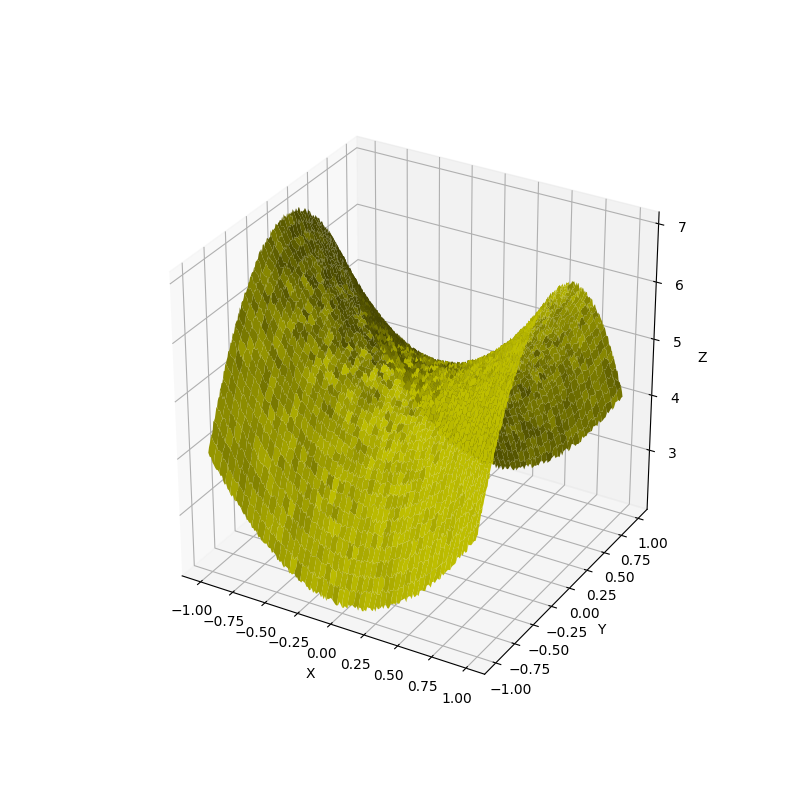
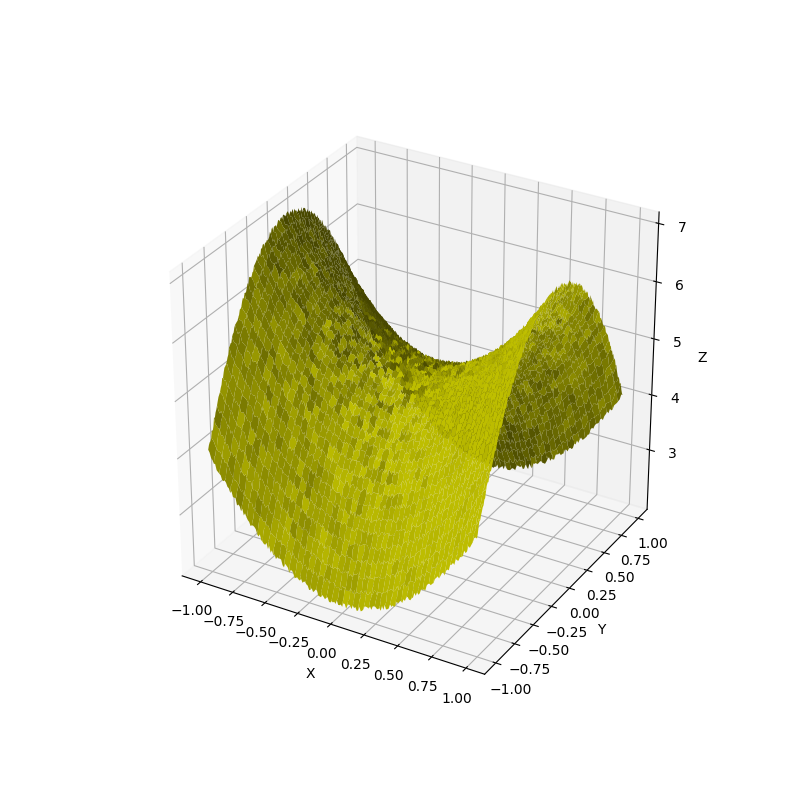
incredible

Changed region(s): [[0.25, 0.25, 0.7812, 0.7812]]

diff --git a/lesson1.py b/lesson1.py
@@ -44,3 +44,94 @@ ax.set_zlabel('Z')
 #save out the image
 plt.savefig('saddle.png')
 
+
+#so that's the target now train the model:
+
+#Using Deep Learning
+#Step 0: Load Libraries
+
+from keras.models import Model
+from keras.layers import Dense, Input, Concatenate
+
+
+#Step 1: Design the Learning Architecture, model definition
+def deep_learning_model():
+
+    # Get the input
+    x_input = Input(shape=[1], name="X")
+    y_input = Input(shape=[1], name="Y")
+
+    # Concatenate the input
+    xy_input = Concatenate(name="Concat")([x_input, y_input])
+
+    # Create Transform functions
+    Dense_1 = Dense(32, activation="relu", name="Dense1")(xy_input)
+    Dense_2 = Dense(4, activation="relu", name="Dense2")(Dense_1)
+
+    # Create the Output
+    z_output = Dense(1, name="Z")(Dense_2)
+
+    # Create the Model
+    model = Model([x_input, y_input], z_output, name="Saddle")
+
+    # Compile the Model
+    model.compile(loss="mean_squared_error", optimizer="sgd")
+
+    return model
+
+model = deep_learning_model()
+model.summary()
+
+
+#is this broke?
+#from keras.utils import plot_model
+#plot_model(model, show_layer_names=True, show_shapes=True)
+
+#Step 2 learn the weights:
+input_x = X.reshape(-1)
+input_y = Y.reshape(-1)
+output_z = Z.reshape(-1)
+X.shape, Y.shape, Z.shape
+
+input_x.shape, input_y.shape, output_z.shape
+
+
+df = pd.DataFrame({"X": input_x, "Y": input_y, "Z": output_z})
+df.head()
+
+#fit the model
+output = model.fit( [input_x, input_y], output_z, epochs=10,
+               validation_split=0.2, shuffle=True, verbose=1)
+
+
+#Step 4: Evaluate Model Performance
+#broken because it's moved from jupy
+from recoflow.vis import MetricsVis
+MetricsVis(output.history)
+
+
+#Step 5: Make a Prediction
+Z_pred = model.predict([input_x, input_y]).reshape(200,200)
+
+#prepare and save the image
+fig = plt.figure(figsize=(8,8))
+ax = fig.add_subplot(111, projection='3d')
+ax.plot_surface(X, Y, Z_pred, color='y')
+ax.set_xlabel('X')
+ax.set_ylabel('Y')
+ax.set_zlabel('Z_pred')
+
+#save out the image
+plt.savefig('saddle_learned.png')
+
+
+
+#Step 6: Keep going
+#Experimentation
+
+#Change the number of layers: 2 -> 3
+#Change the number of learning units in the layer: 32, 4 -> 16,2
+#Change the activation function from relu to linear
+
+
+

diff --git a/README.md b/README.md
@@ -59,10 +59,89 @@ MovieLens DataSet:  https://grouplens.org/datasets/movielens/
     #save out the image
     plt.savefig('saddle.png')
 
-## Output:
-
-
 ![Alt text](./saddle.png?raw=true "saddle 3d shape to be learned")
+
+# The above saddle is the target, now train the model to learn it:
+
+    #Using Deep Learning
+    #Step 0: Load Libraries
+
+    from keras.models import Model
+    from keras.layers import Dense, Input, Concatenate
+
+
+    #Step 1: Design the Learning Architecture, model definition
+    def deep_learning_model():
+
+        # Get the input
+        x_input = Input(shape=[1], name="X")
+        y_input = Input(shape=[1], name="Y")
+
+        # Concatenate the input
+        xy_input = Concatenate(name="Concat")([x_input, y_input])
+
+        # Create Transform functions
+        Dense_1 = Dense(32, activation="relu", name="Dense1")(xy_input)
+        Dense_2 = Dense(4, activation="relu", name="Dense2")(Dense_1)
+
+        # Create the Output
+        z_output = Dense(1, name="Z")(Dense_2)
+
+        # Create the Model
+        model = Model([x_input, y_input], z_output, name="Saddle")
+
+        # Compile the Model
+        model.compile(loss="mean_squared_error", optimizer="sgd")
+
+        return model
+
+    model = deep_learning_model()
+    model.summary()
+
+
+    #is this broke?
+    #from keras.utils import plot_model
+    #plot_model(model, show_layer_names=True, show_shapes=True)
+
+    #Step 2 learn the weights:
+    input_x = X.reshape(-1)
+    input_y = Y.reshape(-1)
+    output_z = Z.reshape(-1)
+    X.shape, Y.shape, Z.shape
+
+    input_x.shape, input_y.shape, output_z.shape
+
+
+    df = pd.DataFrame({"X": input_x, "Y": input_y, "Z": output_z})
+    df.head()
+
+    #fit the model
+    output = model.fit( [input_x, input_y], output_z, epochs=10,
+                   validation_split=0.2, shuffle=True, verbose=1)
+
+
+    #Step 4: Evaluate Model Performance
+    #broken because it's moved from jupy
+    from recoflow.vis import MetricsVis
+    MetricsVis(output.history)
+
+
+    #Step 5: Make a Prediction
+    Z_pred = model.predict([input_x, input_y]).reshape(200,200)
+
+    #prepare and save the image
+    fig = plt.figure(figsize=(8,8))
+    ax = fig.add_subplot(111, projection='3d')
+    ax.plot_surface(X, Y, Z_pred, color='y')
+    ax.set_xlabel('X')
+    ax.set_ylabel('Y')
+    ax.set_zlabel('Z_pred')
+
+    #save out the image
+    plt.savefig('saddle_learned.png')
+
+
+![Alt text](./saddle_learned.png?raw=true "learned saddle 3d shape")
 
 
 
